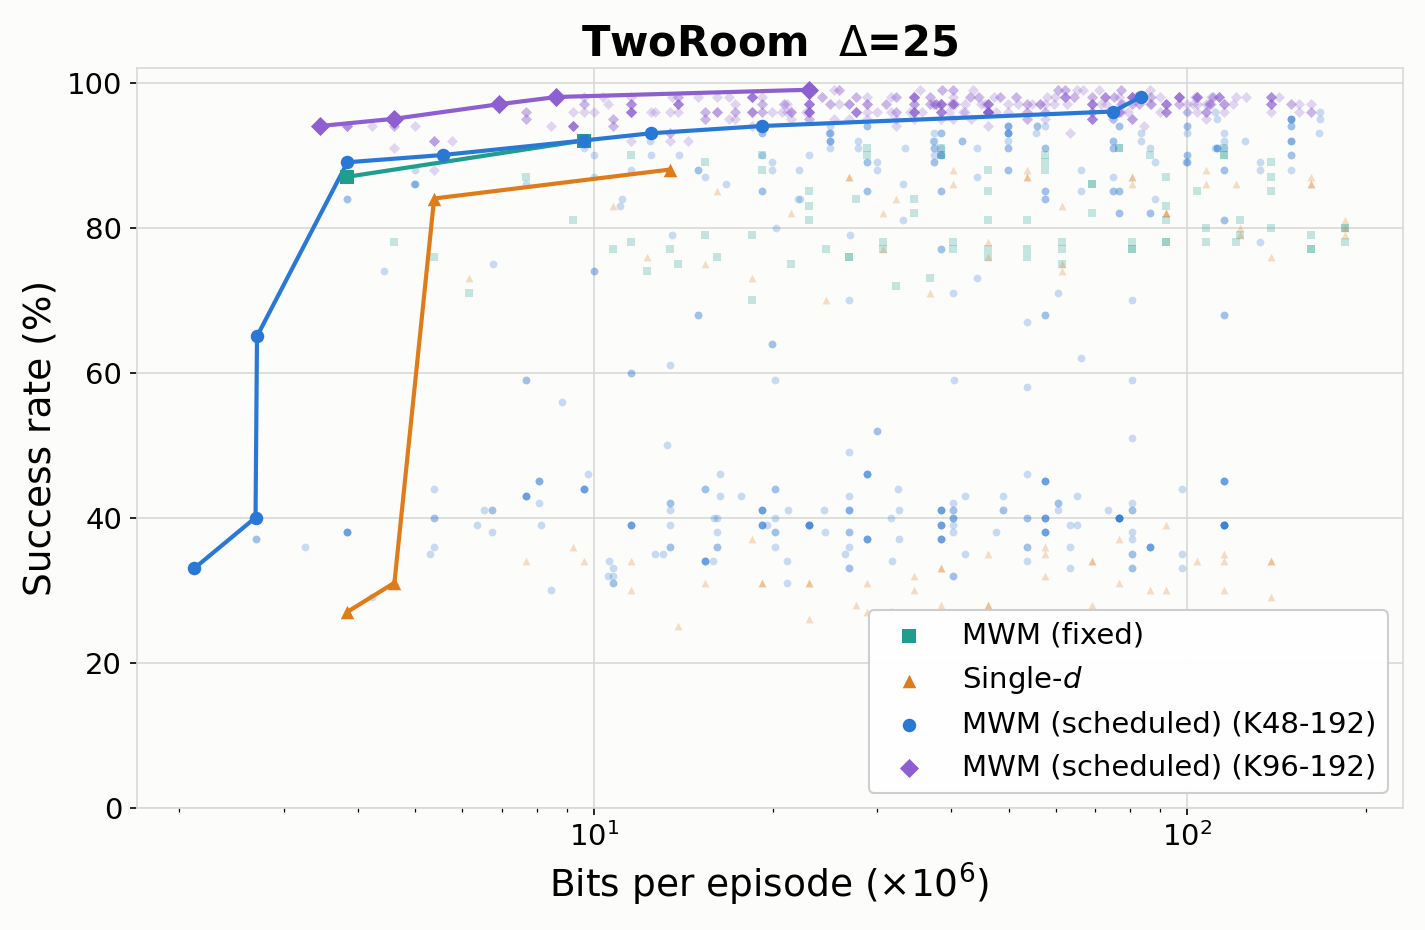
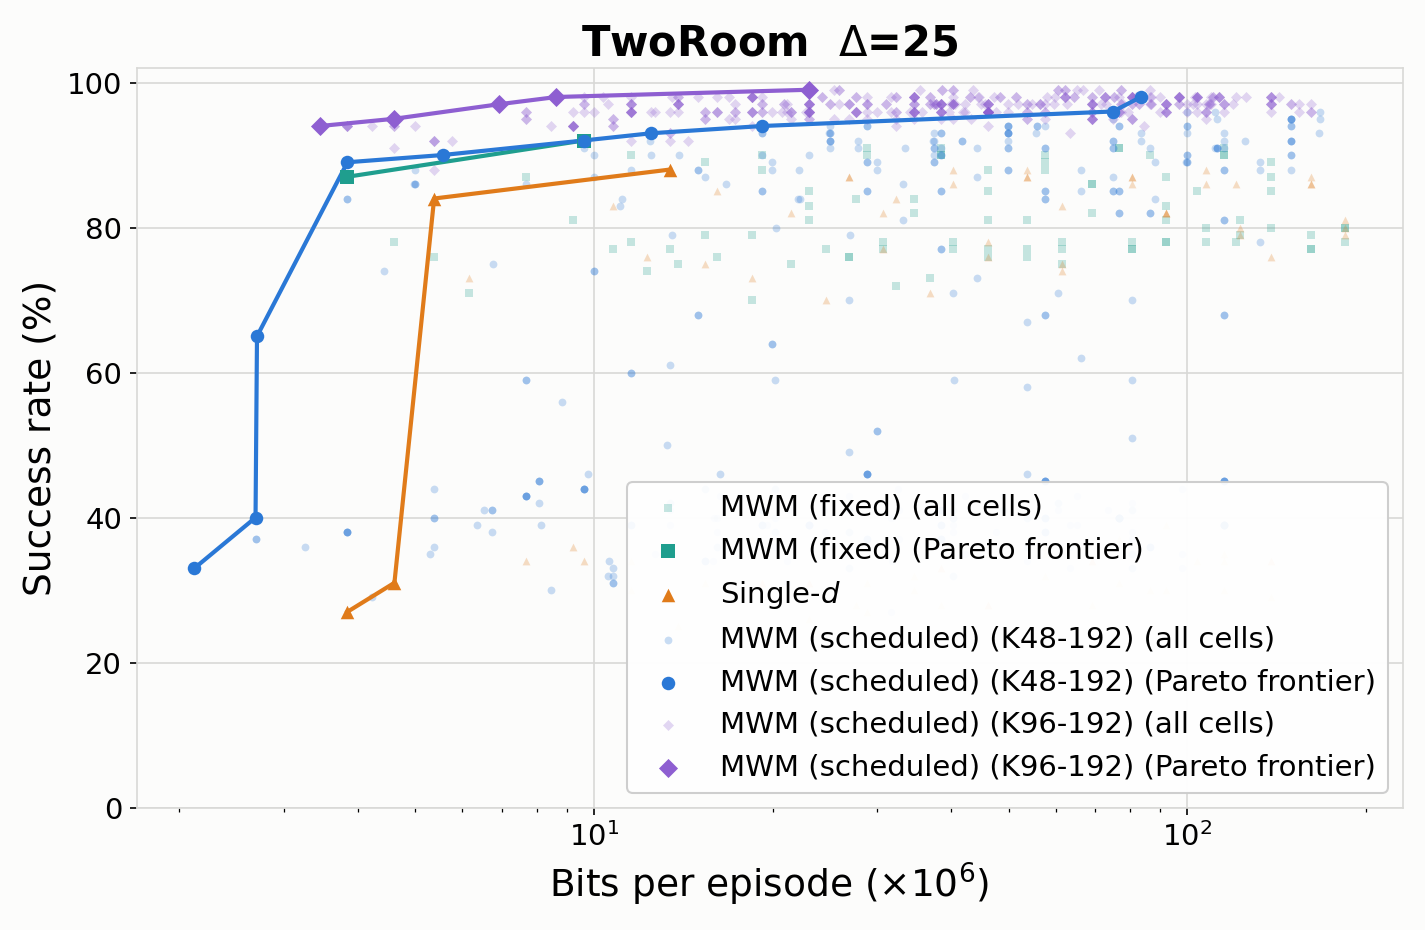
Update paper-plot script and TwoRoom sepopt K48-192 shared figures

Changed region(s): [[0.4632, 0.4989, 0.9572, 0.8419], [0.4323, 0.5925, 0.4632, 0.6237]]

diff --git a/reports/shared/individual_vs_dense_matched_k_horizon5_iter30_all_envs/generate_paper_plot.py b/reports/shared/individual_vs_dense_matched_k_horizon5_iter30_all_envs/generate_paper_plot.py
@@ -28,6 +28,8 @@ ENVS = [
     ("reacher", "Reacher"),
 ]
 
+GOAL_COLORS = {25: BLUE, 50: ORANGE}
+
 
 def main() -> None:
     out = Path(sys.argv[1]) if len(sys.argv) > 1 else HERE / "fixed_level_planning.pdf"
@@ -35,11 +37,13 @@ def main() -> None:
 
     fig, axes = plt.subplots(1, 4, figsize=(5.5, 1.75), sharey=True)
     for ax, (env, label) in zip(axes, ENVS):
-        for goal, suffix, ls, filled in GOALS:
+        for goal, suffix, _, _ in GOALS:
             individual, dense = load_success_by_k(env, suffix)
             individual.update(load_individual_k48_72(env, suffix))
             dense.update(load_dense_k48_72(env, suffix))
-            for series, color, marker in ((individual, ORANGE, "o"), (dense, BLUE, "s")):
+            # Color encodes the goal offset; fill/line style encodes the setting.
+            color = GOAL_COLORS[goal]
+            for series, marker, ls, filled in ((individual, "o", "--", False), (dense, "s", "-", True)):
                 ax.plot(ALL_LEVELS, [series[k] for k in ALL_LEVELS], color=color, marker=marker,
                         lw=1.1, ms=3, ls=ls, markerfacecolor=color if filled else "white",
                         markeredgewidth=0.8)
@@ -54,11 +58,11 @@ def main() -> None:
     axes[0].set_ylabel("Success rate (%)")
 
     handles = [
-        Line2D([], [], color=ORANGE, marker="o", ms=3, lw=1.1, label=r"Single-$d$"),
-        Line2D([], [], color=BLUE, marker="s", ms=3, lw=1.1, label="MWM (fixed)"),
-        Line2D([], [], color="0.35", ls="-", marker="o", ms=3, lw=1.1, label=r"$\Delta=25$"),
         Line2D([], [], color="0.35", ls="--", marker="o", ms=3, lw=1.1,
-               markerfacecolor="white", label=r"$\Delta=50$"),
+               markerfacecolor="white", label=r"Single-$d$"),
+        Line2D([], [], color="0.35", ls="-", marker="s", ms=3, lw=1.1, label="MWM (fixed)"),
+        Line2D([], [], color=GOAL_COLORS[25], lw=1.1, label=r"$\Delta=25$"),
+        Line2D([], [], color=GOAL_COLORS[50], lw=1.1, label=r"$\Delta=50$"),
     ]
     fig.legend(handles=handles, loc="upper center", ncol=4, frameon=False,
                bbox_to_anchor=(0.5, 1.02), handlelength=2.2, columnspacing=1.5)

diff --git a/reports/shared/tworoom_goal25_sepopt_k48to192_all_configs/generate_plot.py b/reports/shared/tworoom_goal25_sepopt_k48to192_all_configs/generate_plot.py
@@ -86,6 +86,7 @@ def main() -> None:
         if r.get("checkpoint_run_dir") != k192_ckpt
     ]
     sepopt_k192_pts = [(bits_per_ep(r), r["success_rate"]) for r in sepopt_k192["runs"]]
+    sepopt_k192_frontier = pareto_frontier(sepopt_k192_pts)
 
     fig, ax = plt.subplots(figsize=(9.5, 6.2), dpi=150)
     ax.set_facecolor("#fcfcfb")
@@ -101,10 +102,14 @@ def main() -> None:
     ax.scatter(*zip(*fixed192_pts), s=28, color=BLACK, alpha=0.55, marker="s", zorder=3,
                linewidths=0, label="Single-$d$ (K=192)")
 
-    ax.scatter(*zip(*sepopt_k192_pts), s=40, color=AQUA, marker="^", zorder=4, linewidths=0,
-               label="MWM (fixed) (K=192)")
+    ax.scatter(*zip(*sepopt_k192_pts), s=14, color=AQUA, alpha=0.35, marker="^", zorder=3.3,
+               linewidths=0, label="MWM (fixed) (K=192) (all cells)")
+    ax.plot(*zip(*sepopt_k192_frontier), color=AQUA, lw=2, zorder=3.6)
+    ax.scatter(*zip(*sepopt_k192_frontier), s=40, color=AQUA, marker="^", zorder=3.9, linewidths=0,
+               label="MWM (fixed) (K=192) (Pareto frontier)")
 
-    ax.scatter(*zip(*adaptive_pts), s=14, color=BLUE, alpha=0.25, zorder=5, linewidths=0)
+    ax.scatter(*zip(*adaptive_pts), s=14, color=BLUE, alpha=0.25, zorder=5, linewidths=0,
+               label="MWM (scheduled) (all cells)")
     ax.plot(*zip(*frontier), color=BLUE, lw=2, zorder=6)
     ax.scatter(*zip(*frontier), s=45, color=BLUE, zorder=7, linewidths=0,
                label="MWM (scheduled) (Pareto frontier)")

diff --git a/reports/shared/tworoom_goal50_sepopt_k48to192_all_configs/generate_plot.py b/reports/shared/tworoom_goal50_sepopt_k48to192_all_configs/generate_plot.py
@@ -94,6 +94,7 @@ def main() -> None:
         if r.get("checkpoint_run_dir") != k192_ckpt
     ]
     sepopt_k192_pts = [(bits_per_ep(r), r["success_rate"]) for r in sepopt_k192["runs"]]
+    sepopt_k192_frontier = pareto_frontier(sepopt_k192_pts)
 
     fig, ax = plt.subplots(figsize=(9.5, 6.2), dpi=150)
     ax.set_facecolor("#fcfcfb")
@@ -109,10 +110,14 @@ def main() -> None:
     ax.scatter(*zip(*fixed192_pts), s=28, color=BLACK, alpha=0.55, marker="s", zorder=3,
                linewidths=0, label="Single-$d$ (K=192)")
 
-    ax.scatter(*zip(*sepopt_k192_pts), s=40, color=AQUA, marker="^", zorder=4, linewidths=0,
-               label="MWM (fixed) (K=192)")
+    ax.scatter(*zip(*sepopt_k192_pts), s=14, color=AQUA, alpha=0.35, marker="^", zorder=3.3,
+               linewidths=0, label="MWM (fixed) (K=192) (all cells)")
+    ax.plot(*zip(*sepopt_k192_frontier), color=AQUA, lw=2, zorder=3.6)
+    ax.scatter(*zip(*sepopt_k192_frontier), s=40, color=AQUA, marker="^", zorder=3.9, linewidths=0,
+               label="MWM (fixed) (K=192) (Pareto frontier)")
 
-    ax.scatter(*zip(*adaptive_pts), s=14, color=BLUE, alpha=0.25, zorder=5, linewidths=0)
+    ax.scatter(*zip(*adaptive_pts), s=14, color=BLUE, alpha=0.25, zorder=5, linewidths=0,
+               label="MWM (scheduled) (all cells)")
     ax.plot(*zip(*frontier), color=BLUE, lw=2, zorder=6)
     ax.scatter(*zip(*frontier), s=45, color=BLUE, zorder=7, linewidths=0,
                label="MWM (scheduled) (Pareto frontier)")

diff --git a/reports/shared/tworoom_goal25_sepopt_k48to192_all_configs/generate_plot_new.py b/reports/shared/tworoom_goal25_sepopt_k48to192_all_configs/generate_plot_new.py
@@ -87,10 +87,17 @@ def plot(series: list[tuple], cost_fn, xlabel: str, subtitle: str, out_name: str
         pts = [(cost_fn(r), r["success_rate"]) for r in runs]
         all_success_rates.extend(sr for _, sr in pts)
         frontier = pareto_frontier(pts)
-        ax.scatter(*zip(*pts), s=14, color=color, alpha=0.25, marker=marker, zorder=2 + z, linewidths=0)
+        # Both MWM series (scheduled + fixed) get an explicit "(all cells)" /
+        # "(Pareto frontier)" legend split, matching the reacher folders'
+        # convention. Single-$d$ (Baseline) keeps its single bare label.
+        is_mwm = label.startswith("MWM")
+        dim_label = f"{label} (all cells)" if is_mwm else None
+        frontier_label = f"{label} (Pareto frontier)" if is_mwm else label
+        ax.scatter(*zip(*pts), s=14, color=color, alpha=0.25, marker=marker, zorder=2 + z, linewidths=0,
+                   label=dim_label)
         ax.plot(*zip(*frontier), color=color, lw=2, zorder=10 + z)
         ax.scatter(*zip(*frontier), s=42, color=color, marker=marker, zorder=20 + z, linewidths=0,
-                   label=label)
+                   label=frontier_label)
 
     ax.set_xlabel(xlabel, fontsize=18)
     ax.set_ylabel("Success rate (%)", fontsize=18)

diff --git a/reports/shared/tworoom_goal50_sepopt_k48to192_all_configs/generate_plot_new.py b/reports/shared/tworoom_goal50_sepopt_k48to192_all_configs/generate_plot_new.py
@@ -87,10 +87,17 @@ def plot(series: list[tuple], cost_fn, xlabel: str, subtitle: str, out_name: str
         pts = [(cost_fn(r), r["success_rate"]) for r in runs]
         all_success_rates.extend(sr for _, sr in pts)
         frontier = pareto_frontier(pts)
-        ax.scatter(*zip(*pts), s=14, color=color, alpha=0.25, marker=marker, zorder=2 + z, linewidths=0)
+        # Both MWM series (scheduled + fixed) get an explicit "(all cells)" /
+        # "(Pareto frontier)" legend split, matching the reacher folders'
+        # convention. Single-$d$ (Baseline) keeps its single bare label.
+        is_mwm = label.startswith("MWM")
+        dim_label = f"{label} (all cells)" if is_mwm else None
+        frontier_label = f"{label} (Pareto frontier)" if is_mwm else label
+        ax.scatter(*zip(*pts), s=14, color=color, alpha=0.25, marker=marker, zorder=2 + z, linewidths=0,
+                   label=dim_label)
         ax.plot(*zip(*frontier), color=color, lw=2, zorder=10 + z)
         ax.scatter(*zip(*frontier), s=42, color=color, marker=marker, zorder=20 + z, linewidths=0,
-                   label=label)
+                   label=frontier_label)
 
     ax.set_xlabel(xlabel, fontsize=18)
     ax.set_ylabel("Success rate (%)", fontsize=18)
